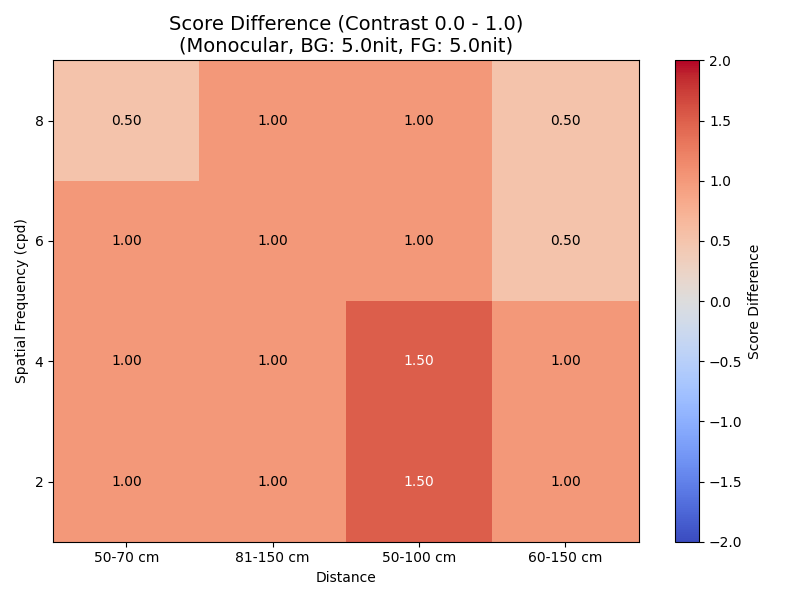
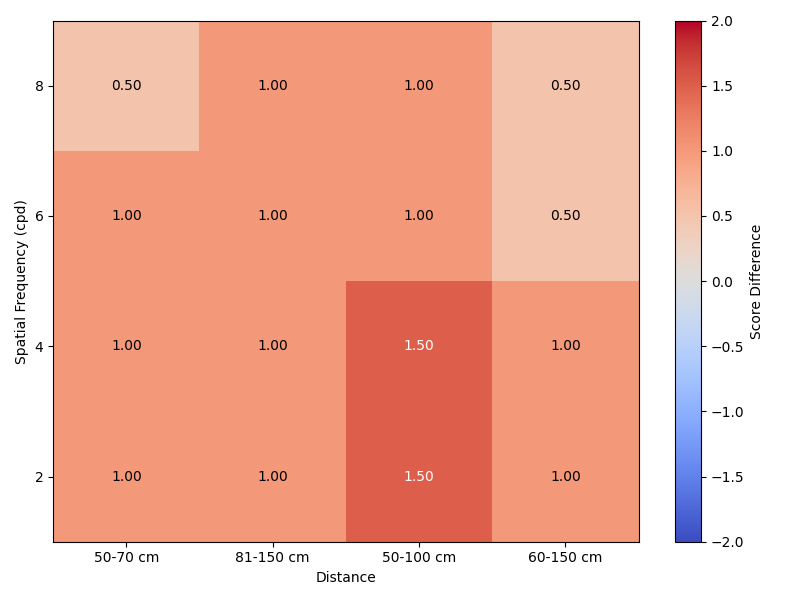
fix: タイトルを削除

diff --git a/src/experiment/pre-analyze/pre-analyze-gabor-noise.py b/src/experiment/pre-analyze/pre-analyze-gabor-noise.py
@@ -167,8 +167,8 @@ for view_cond in view_conds:
         ax.set_xlabel('Distance')
         ax.set_ylabel('Spatial Frequency (cpd)')
         
-        title = f'Score Difference (Contrast 0.0 - 1.0)\n({view_cond}, BG: {bg_lum}nit, FG: {fg_lum}nit)'
-        ax.set_title(title, fontsize=14)
+        #title = f'Score Difference (Contrast 0.0 - 1.0)\n({view_cond}, BG: {bg_lum}nit, FG: {fg_lum}nit)'
+        #ax.set_title(title, fontsize=14)
         
         # 各セルに数値を書き込む
         for i in range(len(pivot_table.index)):
